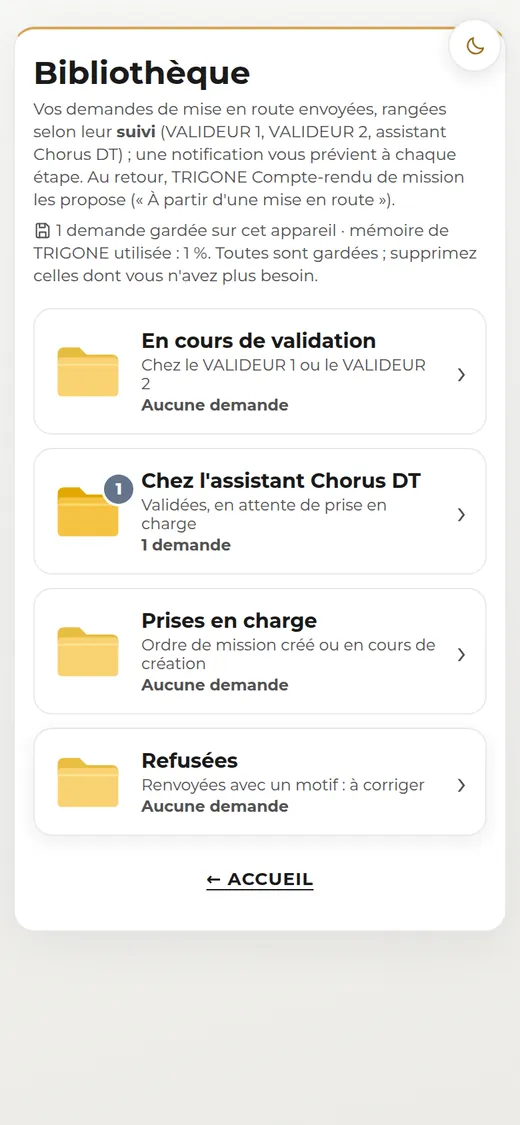
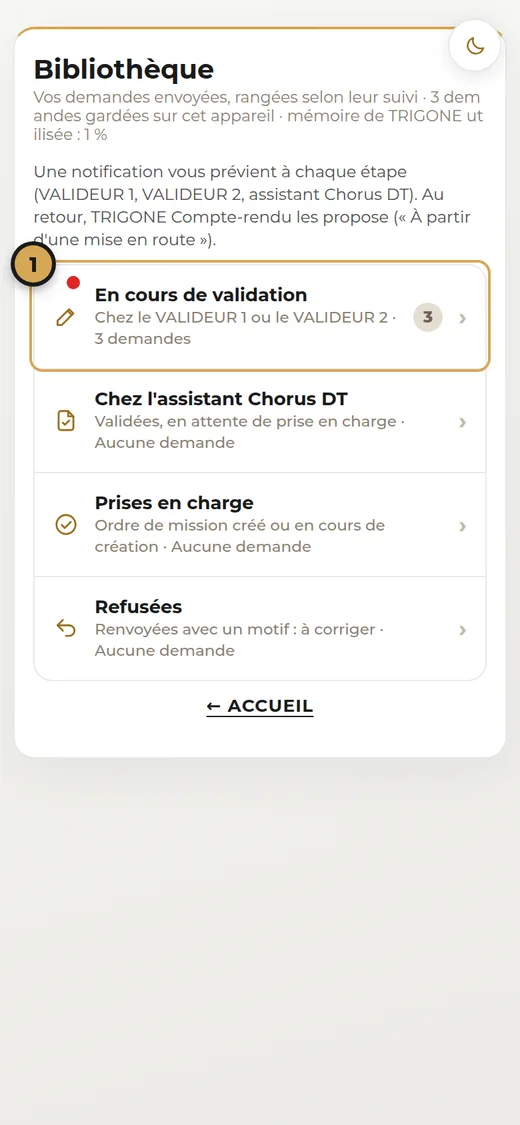
Notice à jour : messagerie (Documents, Bibliothèques, Remboursement) et pastilles rouges (#247)
Claude-Session: https://claude.ai/code/session_01NStkfCttCkWn8HaycQvLWX

diff --git a/notice/notice.js b/notice/notice.js
@@ -4,7 +4,7 @@
 // appli avec des personnages fictifs (notice/img), repères dorés ① ② ③ repris dans le texte.
 // {B} : chemin de la racine de TRIGONE (« ../ » depuis Compte-rendu).
 (function() {
-    var VERSION = 178;
+    var VERSION = 179;
     // Capture : un bouton, pour que le toucher l'agrandisse au lieu de tourner la page.
     var TEL_SVG = '<svg viewBox="0 0 24 24" aria-hidden="true"><rect x="6.5" y="2.5" width="11" height="19" rx="2.5"/><path d="M11 18.5h2"/></svg>';
     function img(n) { return '<button type="button" class="n-capt" data-zoom="{B}notice/img/' + n + '.webp" aria-label="Agrandir la capture"><img src="{B}notice/img/' + n + '.webp" alt=""><i>⤢</i><span class="n-leg">' + TEL_SVG + (n === 'c3-carte-grand' ? 'Téléphone à l\'horizontale · Android / iPhone' : 'Téléphone · Android / iPhone') + '</span></button>'; }
@@ -137,14 +137,16 @@
 
     // ---------- 8. Envoyer et suivre ----------
     ajouter(chapitre(8, 'Envoyer et suivre sa demande', 'La demande part chiffrée, directement dans le TRIGONE du 1er valideur. Un numéro d\'OMR lui est donné à l\'envoi. Vous suivez ensuite chaque étape.',
-        ['Mes documents : Prêtes à envoyer', 'Envoyer au 1er valideur', 'Suivre sa demande', 'Demande refusée : corriger et renvoyer'], 'envoi'));
+        ['Mes documents : Prêtes à envoyer', 'Envoyer au 1er valideur', 'Suivre sa demande', 'Les pastilles rouges', 'Demande refusée : corriger et renvoyer'], 'envoi'));
     ajouter(page('Mes documents', duo('27-documents', et(['Touchez <b>Docs</b> en bas de l\'accueil de Mise en route.', r(1) + ' Ouvrez le dossier <b>Prêtes à envoyer</b> (le nombre de demandes est indiqué).', '<b>Refusées — à corriger</b> : les demandes revenues avec le motif du refus.'])), 'envoi'));
     ajouter(page('Envoyer au 1er valideur', duo('28-pretes', et(['Vérifiez la demande (<b>Modifier</b> pour la corriger, <b>Retirer</b> pour la supprimer).', r(1) + ' <b>Mail du 1<sup>er</sup> valideur</b> (repris de Mon profil).', r(2) + ' Touchez <b>Envoyer cette demande</b>.', 'Fenêtre <b>Avant d\'envoyer</b> : « Aperçu du PDF » pour relire, puis <b>Envoyer</b>.'])) +
         attention('Une demande ne peut partir que vers un <b>VALIDEUR 1</b> qui a un compte TRIGONE. Sinon : « Pas encore de compte TRIGONE » ou « Mauvais destinataire », et la demande reste dans vos Documents.'), 'envoi'));
     ajouter(page('Demande envoyée', duo('29b-envoyee', et(['<b>« Demande envoyée »</b> : elle est arrivée, chiffrée, dans le TRIGONE du 1<sup>er</sup> valideur.', 'Elle quitte Documents et rejoint votre <b>Bibliothèque</b>.', 'Un <b>numéro d\'OMR</b> (ex. N°0001) et sa date lui sont attribués : ils figurent sur le PDF et seront repris dans le compte-rendu.'])) +
         savoir('Sans réseau, l\'envoi est mis de côté et <b>part tout seul</b> au retour du réseau (Paramètres › Données › Envois en attente).'), 'envoi'));
-    ajouter(page('Suivre sa demande', duo('50-suivi', et(['Touchez <b>Biblio</b>.', '<b>En cours de validation</b> : chez le VALIDEUR 1 ou le VALIDEUR 2 (avec leur nom).', '<b>Chez l\'assistant Chorus DT</b> : validée, en attente de prise en charge.', '<b>Prises en charge</b> : ordre de mission créé dans Chorus DT.', '<b>Refusées</b> : avec le motif ; corrigez dans Docs › Refusées et renvoyez.'])) +
+    ajouter(page('Suivre sa demande', duo('50-suivi', et(['Touchez <b>Biblio</b> : vos demandes rangées comme une messagerie. ' + r(1) + ' Un <b>point rouge</b> : une demande vient d\'arriver dans ce dossier.', '<b>En cours de validation</b> : chez le VALIDEUR 1 ou le VALIDEUR 2 (avec leur nom).', '<b>Chez l\'assistant Chorus DT</b> : validée, en attente de prise en charge.', '<b>Prises en charge</b> : ordre de mission créé dans Chorus DT.', '<b>Refusées</b> : avec le motif ; corrigez dans Docs › Refusées et renvoyez.'])) +
         savoir('Une notification vous prévient à chaque étape. Une demande qui attend plus de 24 h relance automatiquement la personne qui la détient.'), 'envoi'));
+    ajouter(page('Le détail d\'une demande', duo('50b-suivi-detail', et(['Dans un dossier, touchez une demande : son détail s\'ouvre (à droite sur PC).', 'La <b>frise de suivi</b> : envoyée, VALIDEUR 1, VALIDEUR 2, assistant Chorus DT.', r(1) + ' <b>PDF</b>, <b>Participants</b>, <b>Agenda</b>, <b>Refaire une demande</b>, <b>Supprimer</b>.'])), 'envoi'));
+    ajouter(page('Les pastilles rouges', duo('51-pastille', et(['Chaque fois qu\'une demande ou un envoi <b>change de dossier</b> (envoyée, validée, refusée, traitée, rangée), un <b>point rouge</b> s\'allume :', r(1) + ' sur l\'onglet du bas (ou le menu à gauche sur PC),', 'sur le <b>dossier</b> où elle est arrivée.', 'Il s\'efface dès que vous ouvrez ce dossier. Un message en bas de l\'écran dit aussi où elle est partie (« … a avancé — maintenant dans … »).'])), 'envoi'));
 
     // ---------- 9. Valideurs ----------
     ajouter(chapitre(9, 'Valider les demandes (VALIDEUR 1 et 2)', 'Le valideur reçoit les demandes dans sa boîte de réception, les ouvre, les valide (signature) ou les refuse, puis transmet ses décisions en un geste.',
@@ -181,7 +183,7 @@
     // ---------- 11. Compte-rendu ----------
     ajouter(chapitre(11, 'Le compte-rendu de mission', 'TRIGONE Compte-rendu accompagne la mission : vous appuyez au départ, à l\'arrivée sur site, au départ du site et au retour. Les frais sont calculés, le compte-rendu part avec ses justificatifs en un seul envoi.',
         ['Partir d\'une mise en route', 'Départ mission', 'Horodatages pendant la mission', 'Frais, récapitulatif et envoi', 'Justificatifs par mail', 'La boîte du Compte-rendu'], 'cr'));
-    ajouter(page('Commencer', duo('60-cr-accueil', et([r(1) + ' <b>La mission commence ici</b> : mission sans mise en route.', r(2) + ' <b>À partir d\'une mise en route</b> : tout est repris de votre demande (conseillé).', r(3) + ' <b>Simuler une mission à venir</b> : estimer les frais.', 'Barre du bas : ' + r(4) + ' <b>Biblio</b> (vos comptes-rendus), ' + r(5) + ' <b>Rembours.</b> (vos montants par mois), ' + r(6) + ' <b>Ma carte</b>, ' + r(7) + ' <b>Notice</b>.'])) +
+    ajouter(page('Commencer', duo('60-cr-accueil', et([r(1) + ' <b>La mission commence ici</b> : mission sans mise en route.', r(2) + ' <b>À partir d\'une mise en route</b> : tout est repris de votre demande (conseillé).', r(3) + ' <b>Simuler une mission à venir</b> : estimer les frais.', 'Barre du bas : ' + r(4) + ' <b>Boîte</b> (missions collectives, justificatifs, questions), ' + r(5) + ' <b>Biblio</b> (vos comptes-rendus), ' + r(6) + ' <b>Rembours.</b> (vos montants par mois), ' + r(7) + ' <b>Ma carte</b>, ' + r(8) + ' <b>Notice</b>.'])) +
         savoir('Le jour du départ, une notification « Départ en mission aujourd\'hui » ouvre directement le compte-rendu pré-rempli.'), 'cr'));
     ajouter(page('À partir d\'une mise en route', duo('61-cr-liste-mer', et(['Touchez <b>À partir d\'une mise en route</b>.', r(1) + ' Choisissez votre demande (envoyée le…, objet, dates).', '<b>« Mission pré-remplie »</b> : identité, libellé, lieux, transports, gares et horaires sont repris. Vérifiez, puis « Départ en mission » le jour J.', 'Le n° OMR suit dans le compte-rendu.'])), 'cr'));
     ajouter(page('Départ mission', duo('63-cr-depart-ident', et(['4 onglets : <b>1. Identification, 2. Trajet aller, 3. Trajet retour, 4. Top départ</b>.', '<b>Identification</b> : grade, nom, NID, compagnie, libellé, mission en France ou à l\'étranger, lieux de départ et de retour.', '<b>Mission collective (chef)</b> : à cocher si vous êtes chef de mission (chapitre 12).', '<b>Trajets</b> : mode de transport, destination, transport complémentaire.'])), 'cr'));
@@ -218,8 +220,8 @@
     // ---------- 13. Bibliothèque, remboursement ----------
     ajouter(chapitre(13, 'Bibliothèque, remboursement, simulateur', 'Tout ce que vous avez envoyé reste sur votre appareil, rangé et consultable. TRIGONE totalise vos remboursements et estime une mission à venir.',
         ['Bibliothèque de Mise en route et de Compte-rendu', 'Remboursement', 'Simulateur'], 'bib'));
-    ajouter(page('Bibliothèque', duo('73-cr-bibliotheque', et(['Compte-rendu › <b>Bibliothèque</b> : <b>À envoyer</b>, <b>Envoyés</b> (en attente de traitement), <b>Traités</b>.', 'Ouvrez un compte-rendu pour le relire, télécharger le PDF, le renvoyer ou repartir de lui.', 'Mise en route › <b>Biblio</b> : vos demandes et leur suivi (chapitre 8).', 'La mémoire utilisée est indiquée ; supprimez ce dont vous n\'avez plus besoin.'])), 'bib'));
-    ajouter(page('Remboursement et simulateur', duo('74-cr-remboursement', et(['<b>Remboursement</b> : vos frais par mois et par année (repas, hébergement, déplacements).', '<b>Exporter en PDF</b> : le tableau à conserver.', '<b>Simulateur</b> (accueil › Simuler une mission à venir) : dates, lieu, hébergement et repas, pour estimer les frais <b>avant</b> de partir. Rien n\'est enregistré.'])), 'bib'));
+    ajouter(page('Bibliothèque', duo('73-cr-bibliotheque', et(['Compte-rendu › <b>Bibliothèque</b>, comme une messagerie : dossiers <b>À envoyer</b>, <b>Envoyés</b> (en attente de traitement), <b>Traités</b>, puis la liste, puis le compte-rendu (sur PC, les trois côte à côte).', r(1) + ' Touchez un compte-rendu : son suivi, le récapitulatif, <b>Retélécharger le PDF</b>, <b>Supprimer</b>.', 'Mise en route › <b>Biblio</b> : vos demandes et leur suivi (chapitre 8).', 'La mémoire utilisée est indiquée ; supprimez ce dont vous n\'avez plus besoin.'])), 'bib'));
+    ajouter(page('Remboursement et simulateur', duo('74-cr-remboursement', et([r(1) + ' <b>Remboursement</b> : un dossier par mois (regroupés par année avec leur total) ; touchez-le pour voir ses missions, puis une mission pour son détail (repas, hébergement, déplacements, avance).', r(2) + ' <b>Exporter en PDF</b> : le tableau à conserver.', '<b>Simulateur</b> (accueil › Simuler une mission à venir) : dates, lieu, hébergement et repas, pour estimer les frais <b>avant</b> de partir. Rien n\'est enregistré.'])), 'bib'));
 
     // ---------- 14. Données ----------
     ajouter(chapitre(14, 'Sauvegarder et retrouver ses données', 'Vos demandes, missions et réglages sont rangés sur votre appareil. La sauvegarde automatique les garde aussi, chiffrés, dans votre compte : un téléphone perdu ne fait rien perdre.',

diff --git a/index.html b/index.html
@@ -5,7 +5,7 @@
 <meta name="viewport" content="width=device-width, initial-scale=1, viewport-fit=cover">
 <title>TRIGONE — Mise en route</title>
 <link rel="manifest" href="manifest.json">
-<script src="jumelage.js?v=185"></script>
+<script src="jumelage.js?v=186"></script>
 <meta name="theme-color" content="#ecebe7">
 <link href="fonts/montserrat.css" rel="stylesheet"><!-- police hébergée avec TRIGONE : identique hors ligne -->
 <link rel="apple-touch-icon" href="apple-touch-icon.png?v=3">
@@ -1152,6 +1152,6 @@ body.dark-mode .MER-BASCULE-ROLE { background: rgba(255,255,255,0.08); } body.da
     </div>
   </div>
 </div>
-<script src="app.js?v=185"></script>
+<script src="app.js?v=186"></script>
 </body>
 </html>

diff --git a/jumelage.js b/jumelage.js
@@ -1197,7 +1197,7 @@
     // Dès l'ouverture (démarrage ou retour dans l'appli), TRIGONE vérifie s'il existe une publication plus récente
     // et se met à jour tout seul. Jamais au mauvais moment : uniquement sur l'accueil, sans fenêtre ouverte
     // (chaque appli le dit via JUMELAGE_PEUT_RECHARGER) ; sinon au prochain retour sur l'accueil.
-    var BUILD = 185, MAJ_DISPO = false, CLE_RECHARGE = 'trigone_recharge_build';
+    var BUILD = 186, MAJ_DISPO = false, CLE_RECHARGE = 'trigone_recharge_build';
     function peutRecharger() {
         if (document.visibilityState === 'hidden') return false;
         if (document.body && document.body.classList.contains('demo-active')) return false;

diff --git a/cr/index.html b/cr/index.html
@@ -11,7 +11,7 @@
 <link rel="manifest" href="../manifest.json">
 <meta name="apple-mobile-web-app-title" content="TRIGONE">
 <meta name="application-name" content="TRIGONE">
-<script src="../jumelage.js?v=185"></script>
+<script src="../jumelage.js?v=186"></script>
 <link rel="icon" type="image/png" sizes="192x192" href="icon-192.png?v=3">
 <link rel="apple-touch-icon" href="apple-touch-icon.png?v=3">
 <link href="../fonts/montserrat.css" rel="stylesheet"><!-- police hébergée avec TRIGONE : identique hors ligne -->

diff --git a/cr/sw.js b/cr/sw.js
@@ -1,6 +1,6 @@
 // Copie jumelée dans TRIGONE Mise en route (dossier cr/) : caches préfixés « trigone-cr- » ; ceux de
 // Mise en route (« trigone-mise-en-route- ») ne sont jamais effacés d'ici.
-const CACHE_NAME = 'trigone-cr-v574';
+const CACHE_NAME = 'trigone-cr-v575';
 const ASSETS = [
   './',
   './manifest.json',

diff --git a/sw.js b/sw.js
@@ -1,4 +1,4 @@
-const CACHE_NAME = 'trigone-mise-en-route-v239';
+const CACHE_NAME = 'trigone-mise-en-route-v240';
 const ASSETS = [
   './',
   './manifest.json',
